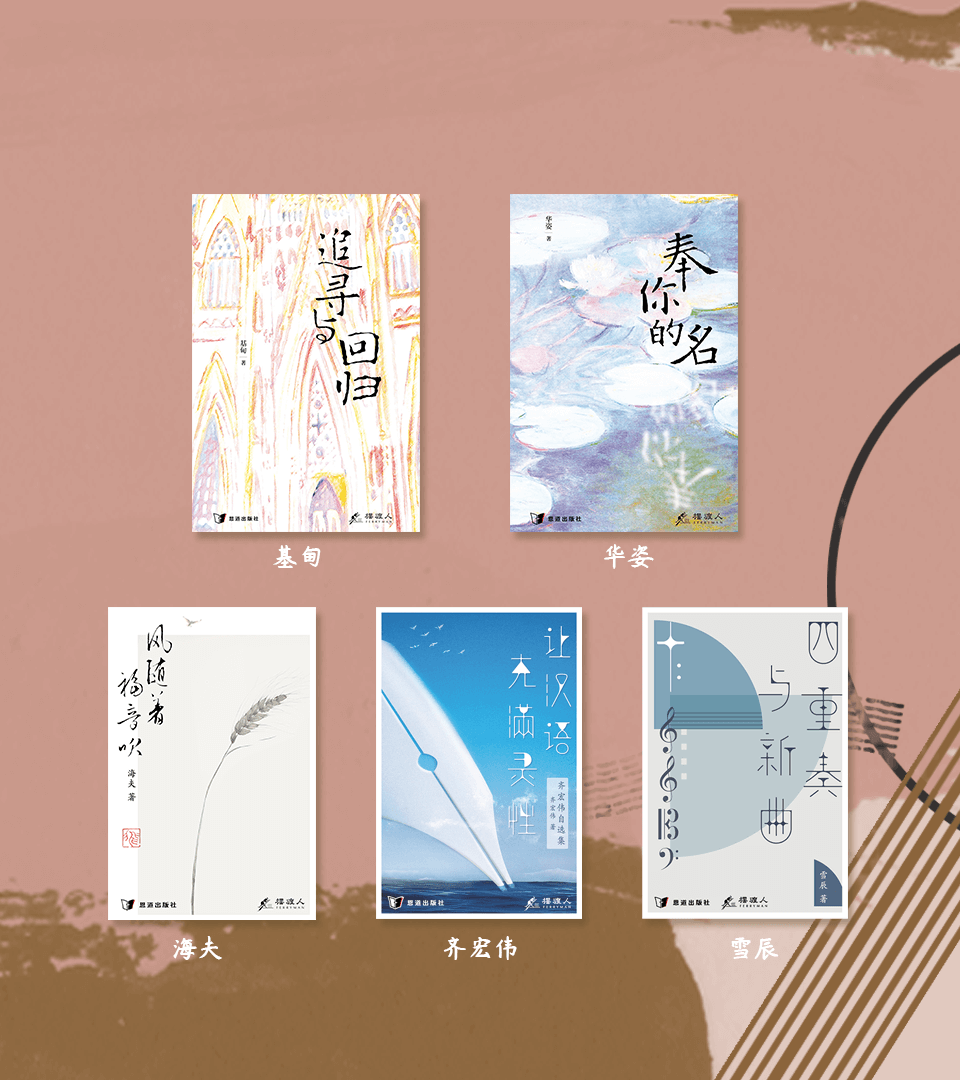
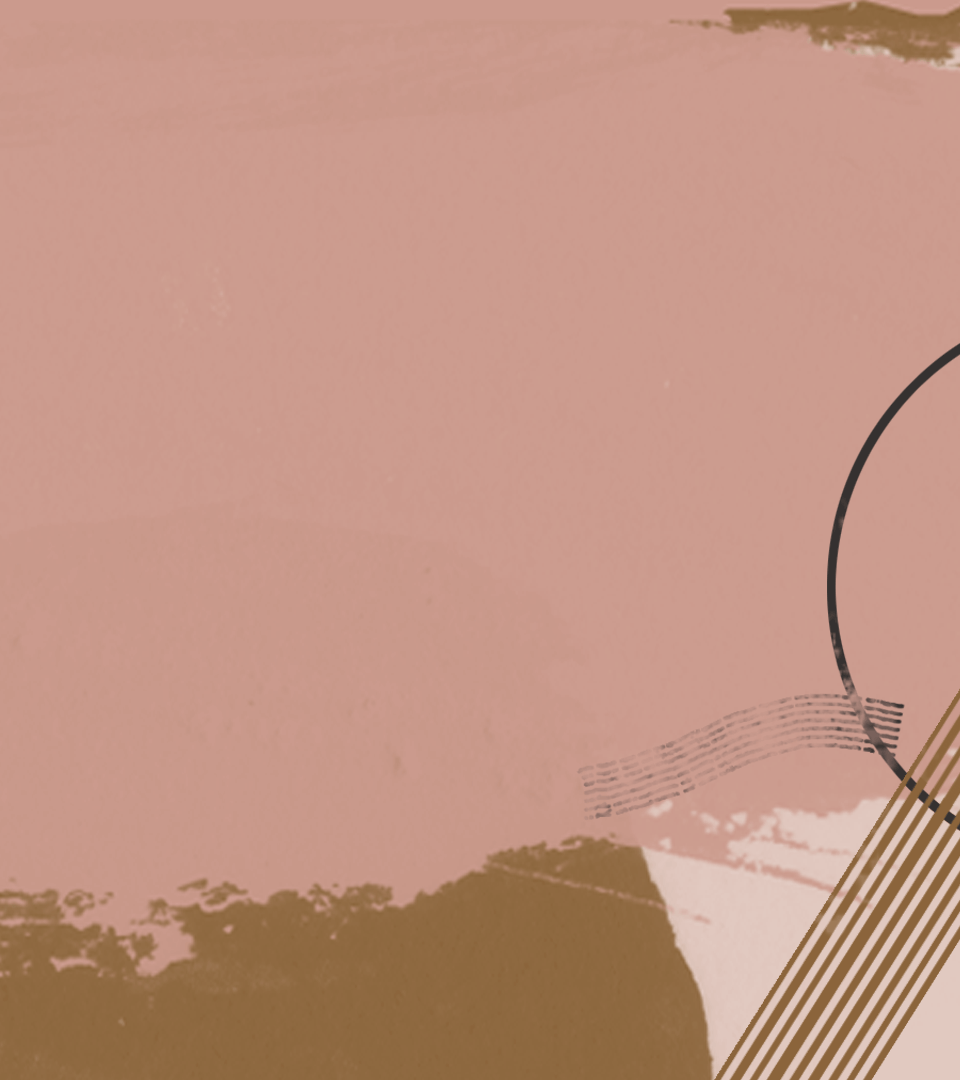
update-ferryman

diff --git a/ferryman/v1/assets/css/style.css b/ferryman/v1/assets/css/style.css
@@ -67,6 +67,15 @@ a {
 a:focus {
 	outline: none;
 	outline-offset: 0px;
+	color: #428bca;
+	text-decoration: none;
+}
+
+a:hover {
+	outline: none;
+	outline-offset: 0px;
+	color: #504f4f;
+	text-decoration: none;
 }
 
 button:focus {
@@ -93,10 +102,15 @@ h1 {
 
 h2 {
 	color: #AD874E;
-	font-weight: 300;
+	font-weight: 400;
 	margin-top: 0;
 	margin-bottom: 10px;
 	font-size: 2em;
+}
+
+h3 {
+	font-size: 22px;
+	line-height: 44px;
 }
 
 h4 {
@@ -106,7 +120,7 @@ h4 {
 
 p {
 	text-align: justify;
-	font-size: 1.16em;
+	font-size: 1.2em;
 	line-height: 2;
 	font-weight: 400;
 	color: #000000;
@@ -240,7 +254,7 @@ p {
 
 #right01 {
 	background: url('../img/bg01.png')no-repeat top center;
-	background-size: 100% 100%;
+	background-size: cover;
 }
 
 #right02 {
@@ -907,6 +921,10 @@ bouncedelay {
 		#formcontactus {
 			margin-top: 40px;
 		}
+
+		#subscribe img {
+			display: none;
+		}
 }
 
 @media only screen and (max-width: 959px) {
@@ -973,31 +991,31 @@ bouncedelay {
 		}
 
 		.background01 {
-			background: url('../img/01.png')no-repeat top center;
+			background: url('../img/m1.png')no-repeat top center;
 		}
 
 		.background02 {
-			background: url('../img/bg02.png')no-repeat top center;
+			background: url('../img/m2.png')no-repeat top center;
 		}
 
 		.background03 {
-			background: url('../img/bg03.png')no-repeat top center;
+			background: url('../img/m3.png')no-repeat top center;
 		}
 
 		.background04 {
-			background: url('../img/bg04.png')no-repeat top center;
+			background: url('../img/m4.png')no-repeat top center;
 		}
 
 		.background05 {
-			background: url('../img/bg05.png')no-repeat top center;
+			background: url('../img/m5.png')no-repeat top center;
 		}
 
 		.background06 {
-			background: url('../img/bg06.png')no-repeat top center;
+			background: url('../img/m6.png')no-repeat top center;
 		}
 
 		.background07 {
-			background: url('../img/bg07.png')no-repeat top center;
+			background: url('../img/m7.png')no-repeat top center;
 		}
 
 		#right02, #right03, #right04, #right05, #right06, #right07 {
@@ -1008,6 +1026,11 @@ bouncedelay {
 			color: transparent;
 			background-color: #fff;
 		}
+
+		#subscribe img {
+			width: 70%;
+		}
+
 
 }
 
@@ -1079,7 +1102,12 @@ bouncedelay {
 		}
 
 		p {
-			font-size: 2rem;
+			font-size: 1.6rem;
+			line-height: 1.6;
+		}
+
+		#subscribe img {
+			width: 50%;
 		}
 }
 

diff --git a/ferryman/v1/index.html b/ferryman/v1/index.html
@@ -8,7 +8,7 @@
       <meta name="author" content="摆渡人 - 恩道出版">
 
       <!-- ============ Google fonts ============ -->
-      <link href='http://fonts.googleapis.com/css?family=Open+Sans:300,400,700' rel='stylesheet' type='text/css'>
+      <!-- <link href='http://fonts.googleapis.com/css?family=Open+Sans:300,400,700' rel='stylesheet' type='text/css'> -->
 
       <!-- ============ Bootstrap core CSS ============ -->
       <link href="assets/css/bootstrap.min.css" rel="stylesheet" type="text/css" />
@@ -58,15 +58,15 @@
               <div class="col-md-8 col-md-offset-2">
                   <h2>承载原创，抵达人心</h2>
                   <h3 style="color: #AD874E;">/</h3>
-                  <h4>
+                  <h3>
                     恩道出版「摆渡人系列」<br>
                     首批<span style="color: #AD874E; font-weight: 400;">5</span>本新书上架！
-                  </h4>
+                  </h3>
               </div>
               <div class="col-md-10 col-md-offset-1">
                 <a href="https://ebook.endao.co/store/bookset-107#" target="_blank"><button class="btn btn-large specsend" >购买电子书</button></a>
                 <span class="rl-20"></span>
-                <a href="https://ebook.endao.co/store/bookset-107#"><button class="btn btn-large specsend">丛书序言</button></a>
+                <a href="https://ferryman.endao.co/all.html" target="_blank"><button class="btn btn-large specsend">丛书序言</button></a>
               </div>
             </section>
           </div>
@@ -185,7 +185,9 @@
 
 
       <div class="ms-right">
-        <div class="ms-section" id="right01"></div>
+        <div class="ms-section" id="right01">
+          <div id="subscribe" class="animated fadeIn"><img src="assets/img/books.png" alt=""></div>
+        </div>
         <div class="ms-section" id="right02"></div>
         <div class="ms-section" id="right03"></div>
         <div class="ms-section" id="right04"></div>

diff --git a/ferryman/v1/assets/js/mumm.js b/ferryman/v1/assets/js/mumm.js
@@ -99,13 +99,13 @@
 
 $(document).ready(function() {
 	"use strict";
-            $('#myContainer').multiscroll({
-            	sectionsColor: ['#2B2D35', '#F1E7C0', '#7BAABE'],
-            	anchors: ['1', '2', '3', '4', '5', '6', '7'],
-            	menu: '#menu',
-            	navigation: true,
-            	navigationTooltips: ['01', '02', '03', '04', '05', '06', '07'],
-            	loopBottom: true,
-            	loopTop: true
-            });
-        });
+		$('#myContainer').multiscroll({
+			sectionsColor: ['#2B2D35', '#F1E7C0', '#7BAABE'],
+			anchors: ['1-1', '1-2', '1-3', '1-4', '1-5', '1-6', '1-7'],
+			menu: '#menu',
+			navigation: true,
+			navigationTooltips: ['01', '02', '03', '04', '05', '06', '07'],
+			loopBottom: true,
+			loopTop: true
+		});
+});
